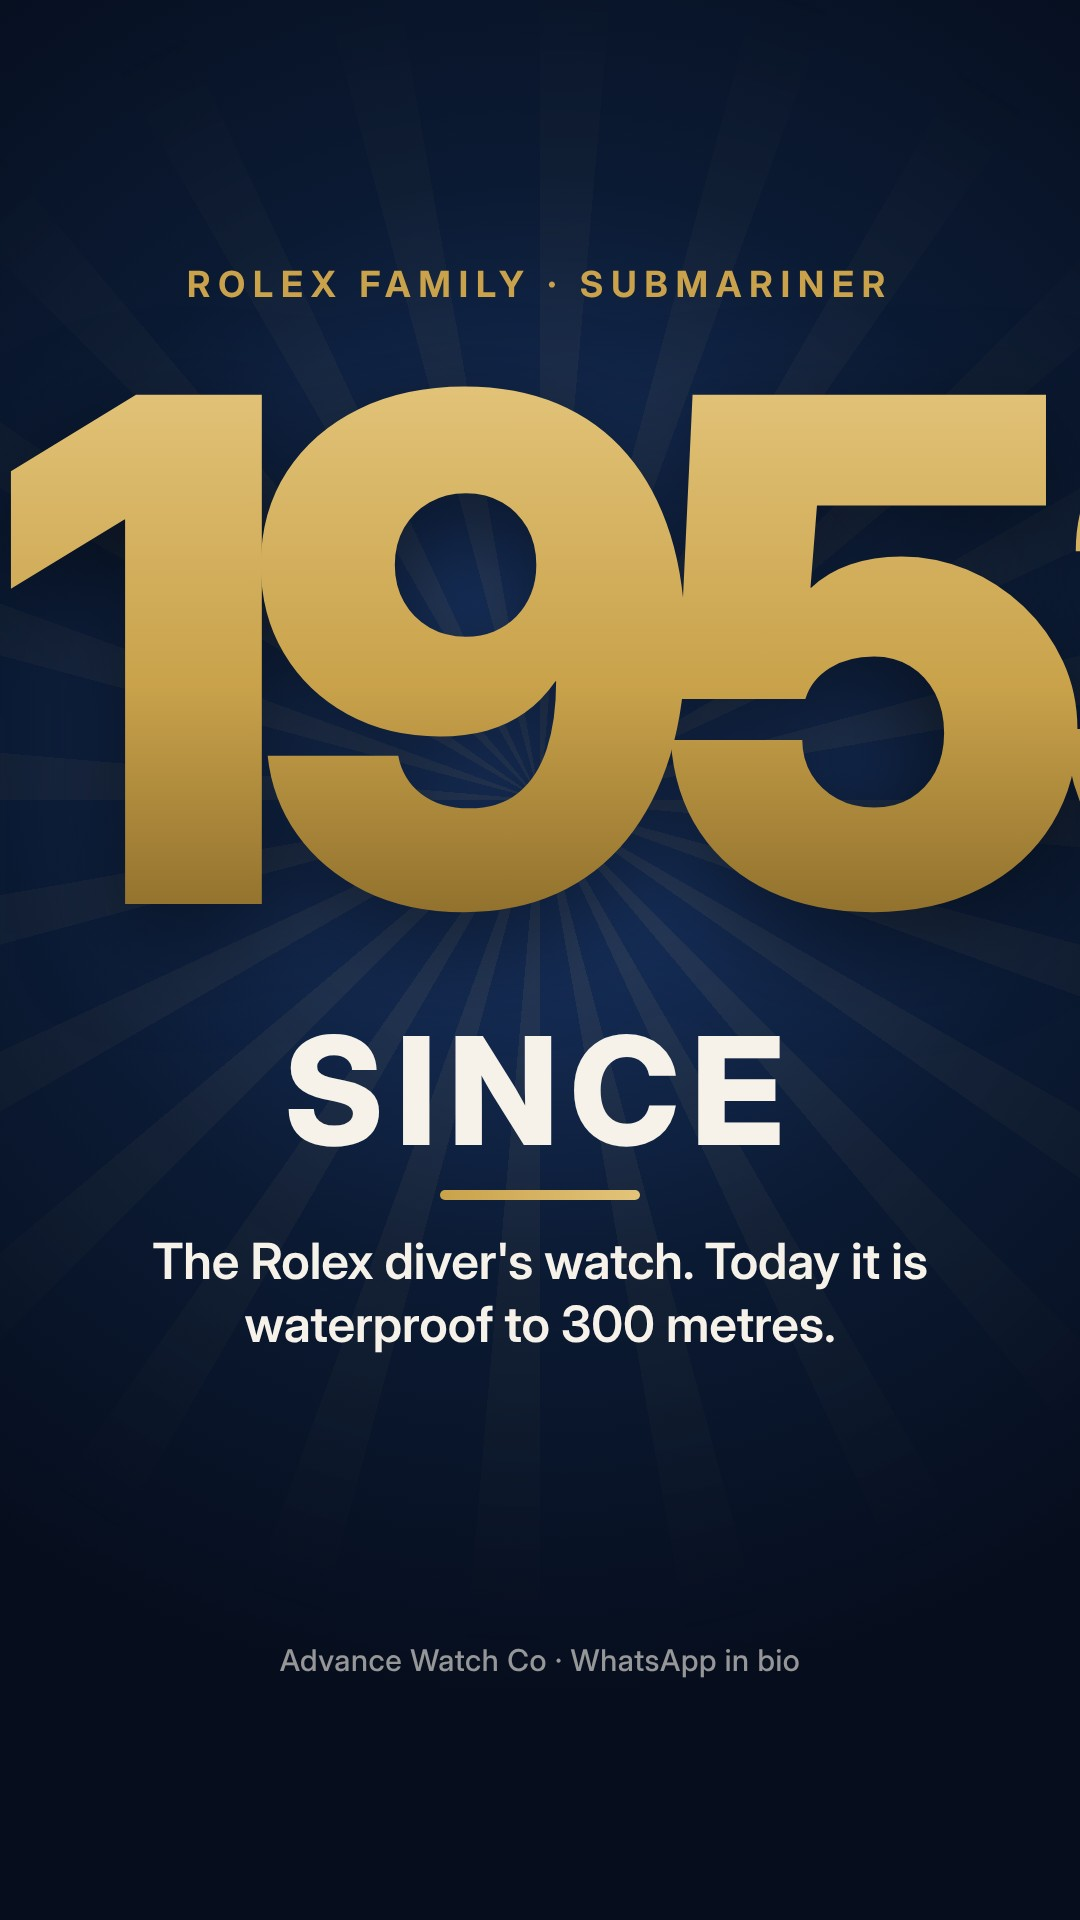
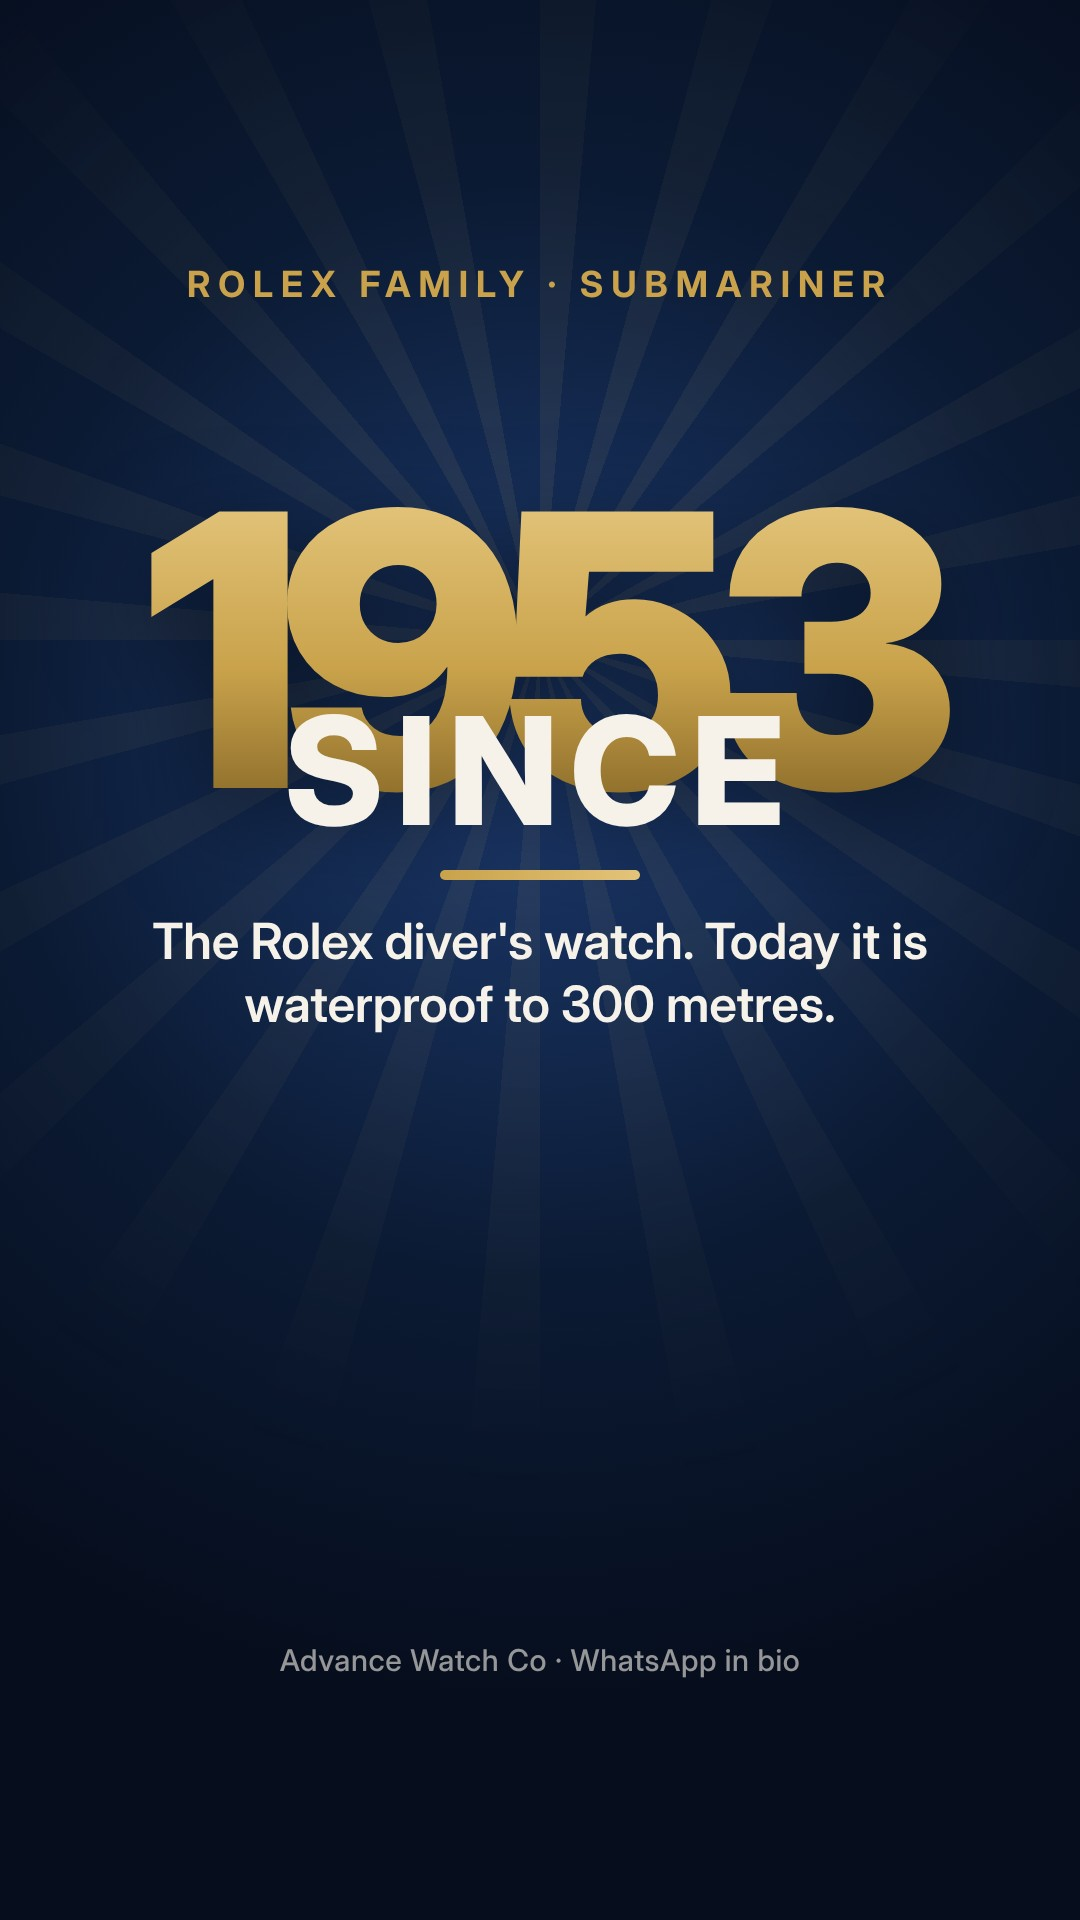
Story queue and reel files update
Claude-Session: https://claude.ai/code/session_0196sG434LsFacRR9je27wED

Changed region(s): [[0.0, 0.1875, 1.0, 0.7188], [0.825, 0.625, 0.8556, 0.6875]]

diff --git a/stories/new-style-v4/templates/v2_58_dep_25.html b/stories/new-style-v4/templates/v2_58_dep_25.html
@@ -19,10 +19,10 @@ html,body{width:1080px;height:1920px;overflow:hidden;background:#000}
 .tick:after{content:'';position:absolute;left:14px;top:6px;width:11px;height:22px;border:solid #c9a24b;border-width:0 5px 5px 0;transform:rotate(45deg)}
 .card{border-radius:36px}
 </style></head><body><div id='s' class='dark' style="">
-<div class='rays' style='top:800px'></div>
+<div class='rays' style='top:750px'></div>
 <div class='eyebrow c' style='top:262px'>How the deposit works</div>
-<div class='a c' style='top:300px;font-size:700px;font-weight:900;line-height:1;letter-spacing:-.06em;color:transparent;background:linear-gradient(180deg,#e3c47a 10%,#c9a24b 55%,#7d5f22 100%);-webkit-background-clip:text;background-clip:text;filter:drop-shadow(0 30px 50px rgba(0,0,0,.5))'>25%</div>
-<div class='a c' style='top:1000px;font-size:150px;font-weight:800;letter-spacing:.08em'>DEPOSIT</div>
-<div class='bar' style='left:50%;top:1190px;width:200px;transform:translateX(-50%)'></div>
-<div class='a' style='left:100px;top:1230px;width:880px;text-align:center;font-size:50px;font-weight:600;line-height:1.25'>A twenty-five percent deposit confirms your order. The balance is paid when you have checked the watch, by bank transfer, cash or crypto.</div>
+<div class='a c' style='top:350px;font-size:600px;font-weight:900;line-height:1;letter-spacing:-.06em;color:transparent;background:linear-gradient(180deg,#e3c47a 10%,#c9a24b 55%,#7d5f22 100%);-webkit-background-clip:text;background-clip:text;filter:drop-shadow(0 30px 50px rgba(0,0,0,.5))'>25</div>
+<div class='a c' style='top:900px;font-size:150px;font-weight:800;letter-spacing:.08em'>PERCENT DEPOSIT</div>
+<div class='bar' style='left:50%;top:1090px;width:200px;transform:translateX(-50%)'></div>
+<div class='a' style='left:100px;top:1130px;width:880px;text-align:center;font-size:50px;font-weight:600;line-height:1.25'>A twenty-five percent deposit confirms your order. The balance is paid when you have checked the watch, by bank transfer, cash or crypto.</div>
 <div class='legal' style='top:1640px;color:rgba(246,242,234,.6)'>Advance Watch Co · WhatsApp in bio</div></div></body></html>

diff --git a/stories/new-style-v4/templates/v2_62_fk_one.html b/stories/new-style-v4/templates/v2_62_fk_one.html
@@ -19,10 +19,10 @@ html,body{width:1080px;height:1920px;overflow:hidden;background:#000}
 .tick:after{content:'';position:absolute;left:14px;top:6px;width:11px;height:22px;border:solid #c9a24b;border-width:0 5px 5px 0;transform:rotate(45deg)}
 .card{border-radius:36px}
 </style></head><body><div id='s' class='dark' style="">
-<div class='rays' style='top:800px'></div>
+<div class='rays' style='top:750px'></div>
 <div class='eyebrow c' style='top:262px'>How many checks?</div>
-<div class='a c' style='top:300px;font-size:700px;font-weight:900;line-height:1;letter-spacing:-.06em;color:transparent;background:linear-gradient(180deg,#e3c47a 10%,#c9a24b 55%,#7d5f22 100%);-webkit-background-clip:text;background-clip:text;filter:drop-shadow(0 30px 50px rgba(0,0,0,.5))'>12</div>
-<div class='a c' style='top:1000px;font-size:150px;font-weight:800;letter-spacing:.08em'>CHECKS</div>
-<div class='bar' style='left:50%;top:1190px;width:200px;transform:translateX(-50%)'></div>
-<div class='a' style='left:100px;top:1230px;width:880px;text-align:center;font-size:50px;font-weight:600;line-height:1.25'>Twelve checks on dial, case, glow, numbers, papers, price and seller, ending with an independent check. None proves it alone. Use them together.</div>
+<div class='a c' style='top:350px;font-size:600px;font-weight:900;line-height:1;letter-spacing:-.06em;color:transparent;background:linear-gradient(180deg,#e3c47a 10%,#c9a24b 55%,#7d5f22 100%);-webkit-background-clip:text;background-clip:text;filter:drop-shadow(0 30px 50px rgba(0,0,0,.5))'>12</div>
+<div class='a c' style='top:900px;font-size:150px;font-weight:800;letter-spacing:.08em'>CHECKS</div>
+<div class='bar' style='left:50%;top:1090px;width:200px;transform:translateX(-50%)'></div>
+<div class='a' style='left:100px;top:1130px;width:880px;text-align:center;font-size:50px;font-weight:600;line-height:1.25'>Twelve checks on dial, case, glow, numbers, papers, price and seller, ending with an independent check. None proves it alone. Use them together.</div>
 <div class='legal' style='top:1640px;color:rgba(246,242,234,.6)'>Advance Watch Co · WhatsApp in bio</div></div></body></html>

diff --git a/stories/new-style-v4/templates/v2_57_hrs_find.html b/stories/new-style-v4/templates/v2_57_hrs_find.html
@@ -19,10 +19,10 @@ html,body{width:1080px;height:1920px;overflow:hidden;background:#000}
 .tick:after{content:'';position:absolute;left:14px;top:6px;width:11px;height:22px;border:solid #c9a24b;border-width:0 5px 5px 0;transform:rotate(45deg)}
 .card{border-radius:36px}
 </style></head><body><div id='s' class='dark' style="">
-<div class='rays' style='top:800px'></div>
+<div class='rays' style='top:640px'></div>
 <div class='eyebrow c' style='top:262px'>Sourcing time</div>
-<div class='a c' style='top:300px;font-size:700px;font-weight:900;line-height:1;letter-spacing:-.06em;color:transparent;background:linear-gradient(180deg,#e3c47a 10%,#c9a24b 55%,#7d5f22 100%);-webkit-background-clip:text;background-clip:text;filter:drop-shadow(0 30px 50px rgba(0,0,0,.5))'>1-48</div>
-<div class='a c' style='top:1000px;font-size:150px;font-weight:800;letter-spacing:.08em'>HOURS</div>
-<div class='bar' style='left:50%;top:1190px;width:200px;transform:translateX(-50%)'></div>
-<div class='a' style='left:100px;top:1230px;width:880px;text-align:center;font-size:50px;font-weight:600;line-height:1.25'>Finding your watch can take from one hour up to forty-eight hours, depending on the watch. We tell you honestly which.</div>
+<div class='a c' style='top:460px;font-size:380px;font-weight:900;line-height:1;letter-spacing:-.06em;color:transparent;background:linear-gradient(180deg,#e3c47a 10%,#c9a24b 55%,#7d5f22 100%);-webkit-background-clip:text;background-clip:text;filter:drop-shadow(0 30px 50px rgba(0,0,0,.5))'>1-48</div>
+<div class='a c' style='top:680px;font-size:150px;font-weight:800;letter-spacing:.08em'>HOURS</div>
+<div class='bar' style='left:50%;top:870px;width:200px;transform:translateX(-50%)'></div>
+<div class='a' style='left:100px;top:910px;width:880px;text-align:center;font-size:50px;font-weight:600;line-height:1.25'>Finding your watch can take from one hour up to forty-eight hours, depending on the watch. We tell you honestly which.</div>
 <div class='legal' style='top:1640px;color:rgba(246,242,234,.6)'>Advance Watch Co · WhatsApp in bio</div></div></body></html>

diff --git a/stories/new-style-v4/templates/v2_02_fam_oyster.html b/stories/new-style-v4/templates/v2_02_fam_oyster.html
@@ -19,9 +19,9 @@ html,body{width:1080px;height:1920px;overflow:hidden;background:#000}
 .tick:after{content:'';position:absolute;left:14px;top:6px;width:11px;height:22px;border:solid #c9a24b;border-width:0 5px 5px 0;transform:rotate(45deg)}
 .card{border-radius:36px}
 </style></head><body><div id='s' class='dark' style="">
-<div class='rays' style='top:800px'></div>
+<div class='rays' style='top:640px'></div>
 <div class='eyebrow c' style='top:262px'>Rolex family · Oyster Perpetual</div>
-<div class='a c' style='top:300px;font-size:700px;font-weight:900;line-height:1;letter-spacing:-.06em;color:transparent;background:linear-gradient(180deg,#e3c47a 10%,#c9a24b 55%,#7d5f22 100%);-webkit-background-clip:text;background-clip:text;filter:drop-shadow(0 30px 50px rgba(0,0,0,.5))'>1931</div>
+<div class='a c' style='top:620px;font-size:380px;font-weight:900;line-height:1;letter-spacing:-.06em;color:transparent;background:linear-gradient(180deg,#e3c47a 10%,#c9a24b 55%,#7d5f22 100%);-webkit-background-clip:text;background-clip:text;filter:drop-shadow(0 30px 50px rgba(0,0,0,.5))'>1931</div>
 <div class='a c' style='top:1000px;font-size:150px;font-weight:800;letter-spacing:.08em'>SINCE</div>
 <div class='bar' style='left:50%;top:1190px;width:200px;transform:translateX(-50%)'></div>
 <div class='a' style='left:100px;top:1230px;width:880px;text-align:center;font-size:50px;font-weight:600;line-height:1.25'>The essential Rolex: waterproof Oyster case and a self-winding rotor, nothing extra. Colourful dials, 28 to 41 mm.</div>

diff --git a/stories/new-style-v4/templates/v2_01_fam_daydate.html b/stories/new-style-v4/templates/v2_01_fam_daydate.html
@@ -19,9 +19,9 @@ html,body{width:1080px;height:1920px;overflow:hidden;background:#000}
 .tick:after{content:'';position:absolute;left:14px;top:6px;width:11px;height:22px;border:solid #c9a24b;border-width:0 5px 5px 0;transform:rotate(45deg)}
 .card{border-radius:36px}
 </style></head><body><div id='s' class='dark' style="">
-<div class='rays' style='top:800px'></div>
+<div class='rays' style='top:640px'></div>
 <div class='eyebrow c' style='top:262px'>Rolex family · Day-Date</div>
-<div class='a c' style='top:300px;font-size:700px;font-weight:900;line-height:1;letter-spacing:-.06em;color:transparent;background:linear-gradient(180deg,#e3c47a 10%,#c9a24b 55%,#7d5f22 100%);-webkit-background-clip:text;background-clip:text;filter:drop-shadow(0 30px 50px rgba(0,0,0,.5))'>1956</div>
+<div class='a c' style='top:620px;font-size:380px;font-weight:900;line-height:1;letter-spacing:-.06em;color:transparent;background:linear-gradient(180deg,#e3c47a 10%,#c9a24b 55%,#7d5f22 100%);-webkit-background-clip:text;background-clip:text;filter:drop-shadow(0 30px 50px rgba(0,0,0,.5))'>1956</div>
 <div class='a c' style='top:1000px;font-size:150px;font-weight:800;letter-spacing:.08em'>SINCE</div>
 <div class='bar' style='left:50%;top:1190px;width:200px;transform:translateX(-50%)'></div>
 <div class='a' style='left:100px;top:1230px;width:880px;text-align:center;font-size:50px;font-weight:600;line-height:1.25'>The first wristwatch to spell out the day of the week in full. Made only in gold or platinum, on the President bracelet.</div>

diff --git a/stories/new-style-v4/templates/v2_00_fam_datejust.html b/stories/new-style-v4/templates/v2_00_fam_datejust.html
@@ -19,9 +19,9 @@ html,body{width:1080px;height:1920px;overflow:hidden;background:#000}
 .tick:after{content:'';position:absolute;left:14px;top:6px;width:11px;height:22px;border:solid #c9a24b;border-width:0 5px 5px 0;transform:rotate(45deg)}
 .card{border-radius:36px}
 </style></head><body><div id='s' class='dark' style="">
-<div class='rays' style='top:800px'></div>
+<div class='rays' style='top:640px'></div>
 <div class='eyebrow c' style='top:262px'>Rolex family · Datejust</div>
-<div class='a c' style='top:300px;font-size:700px;font-weight:900;line-height:1;letter-spacing:-.06em;color:transparent;background:linear-gradient(180deg,#e3c47a 10%,#c9a24b 55%,#7d5f22 100%);-webkit-background-clip:text;background-clip:text;filter:drop-shadow(0 30px 50px rgba(0,0,0,.5))'>1945</div>
+<div class='a c' style='top:620px;font-size:380px;font-weight:900;line-height:1;letter-spacing:-.06em;color:transparent;background:linear-gradient(180deg,#e3c47a 10%,#c9a24b 55%,#7d5f22 100%);-webkit-background-clip:text;background-clip:text;filter:drop-shadow(0 30px 50px rgba(0,0,0,.5))'>1945</div>
 <div class='a c' style='top:1000px;font-size:150px;font-weight:800;letter-spacing:.08em'>SINCE</div>
 <div class='bar' style='left:50%;top:1190px;width:200px;transform:translateX(-50%)'></div>
 <div class='a' style='left:100px;top:1230px;width:880px;text-align:center;font-size:50px;font-weight:600;line-height:1.25'>The first self-winding chronometer wristwatch with the date in a window. The classic Rolex. Sizes 31 to 41 mm.</div>

diff --git a/stories/new-style-v4/templates/v2_12_fam_landdweller.html b/stories/new-style-v4/templates/v2_12_fam_landdweller.html
@@ -19,9 +19,9 @@ html,body{width:1080px;height:1920px;overflow:hidden;background:#000}
 .tick:after{content:'';position:absolute;left:14px;top:6px;width:11px;height:22px;border:solid #c9a24b;border-width:0 5px 5px 0;transform:rotate(45deg)}
 .card{border-radius:36px}
 </style></head><body><div id='s' class='dark' style="">
-<div class='rays' style='top:800px'></div>
+<div class='rays' style='top:640px'></div>
 <div class='eyebrow c' style='top:262px'>Rolex family · Land-Dweller</div>
-<div class='a c' style='top:300px;font-size:700px;font-weight:900;line-height:1;letter-spacing:-.06em;color:transparent;background:linear-gradient(180deg,#e3c47a 10%,#c9a24b 55%,#7d5f22 100%);-webkit-background-clip:text;background-clip:text;filter:drop-shadow(0 30px 50px rgba(0,0,0,.5))'>2025</div>
+<div class='a c' style='top:620px;font-size:380px;font-weight:900;line-height:1;letter-spacing:-.06em;color:transparent;background:linear-gradient(180deg,#e3c47a 10%,#c9a24b 55%,#7d5f22 100%);-webkit-background-clip:text;background-clip:text;filter:drop-shadow(0 30px 50px rgba(0,0,0,.5))'>2025</div>
 <div class='a c' style='top:1000px;font-size:150px;font-weight:800;letter-spacing:.08em'>SINCE</div>
 <div class='bar' style='left:50%;top:1190px;width:200px;transform:translateX(-50%)'></div>
 <div class='a' style='left:100px;top:1230px;width:880px;text-align:center;font-size:50px;font-weight:600;line-height:1.25'>Rolex's newest watch family, with the new Dynapulse escapement and an integrated bracelet.</div>

diff --git a/stories/new-style-v4/templates/v2_04_fam_gmt.html b/stories/new-style-v4/templates/v2_04_fam_gmt.html
@@ -19,9 +19,9 @@ html,body{width:1080px;height:1920px;overflow:hidden;background:#000}
 .tick:after{content:'';position:absolute;left:14px;top:6px;width:11px;height:22px;border:solid #c9a24b;border-width:0 5px 5px 0;transform:rotate(45deg)}
 .card{border-radius:36px}
 </style></head><body><div id='s' class='dark' style="">
-<div class='rays' style='top:800px'></div>
+<div class='rays' style='top:640px'></div>
 <div class='eyebrow c' style='top:262px'>Rolex family · GMT-Master II</div>
-<div class='a c' style='top:300px;font-size:700px;font-weight:900;line-height:1;letter-spacing:-.06em;color:transparent;background:linear-gradient(180deg,#e3c47a 10%,#c9a24b 55%,#7d5f22 100%);-webkit-background-clip:text;background-clip:text;filter:drop-shadow(0 30px 50px rgba(0,0,0,.5))'>1955</div>
+<div class='a c' style='top:620px;font-size:380px;font-weight:900;line-height:1;letter-spacing:-.06em;color:transparent;background:linear-gradient(180deg,#e3c47a 10%,#c9a24b 55%,#7d5f22 100%);-webkit-background-clip:text;background-clip:text;filter:drop-shadow(0 30px 50px rgba(0,0,0,.5))'>1955</div>
 <div class='a c' style='top:1000px;font-size:150px;font-weight:800;letter-spacing:.08em'>SINCE</div>
 <div class='bar' style='left:50%;top:1190px;width:200px;transform:translateX(-50%)'></div>
 <div class='a' style='left:100px;top:1230px;width:880px;text-align:center;font-size:50px;font-weight:600;line-height:1.25'>Made for pilots to follow two time zones at once. The two-colour bezel is its signature.</div>

diff --git a/stories/new-style-v4/templates/v2_07_fam_airking.html b/stories/new-style-v4/templates/v2_07_fam_airking.html
@@ -19,9 +19,9 @@ html,body{width:1080px;height:1920px;overflow:hidden;background:#000}
 .tick:after{content:'';position:absolute;left:14px;top:6px;width:11px;height:22px;border:solid #c9a24b;border-width:0 5px 5px 0;transform:rotate(45deg)}
 .card{border-radius:36px}
 </style></head><body><div id='s' class='dark' style="">
-<div class='rays' style='top:800px'></div>
+<div class='rays' style='top:640px'></div>
 <div class='eyebrow c' style='top:262px'>Rolex family · Air-King</div>
-<div class='a c' style='top:300px;font-size:700px;font-weight:900;line-height:1;letter-spacing:-.06em;color:transparent;background:linear-gradient(180deg,#e3c47a 10%,#c9a24b 55%,#7d5f22 100%);-webkit-background-clip:text;background-clip:text;filter:drop-shadow(0 30px 50px rgba(0,0,0,.5))'>1945</div>
+<div class='a c' style='top:620px;font-size:380px;font-weight:900;line-height:1;letter-spacing:-.06em;color:transparent;background:linear-gradient(180deg,#e3c47a 10%,#c9a24b 55%,#7d5f22 100%);-webkit-background-clip:text;background-clip:text;filter:drop-shadow(0 30px 50px rgba(0,0,0,.5))'>1945</div>
 <div class='a c' style='top:1000px;font-size:150px;font-weight:800;letter-spacing:.08em'>SINCE</div>
 <div class='bar' style='left:50%;top:1190px;width:200px;transform:translateX(-50%)'></div>
 <div class='a' style='left:100px;top:1230px;width:880px;text-align:center;font-size:50px;font-weight:600;line-height:1.25'>A tribute to early aviation, with a bold minute scale made for reading the time in flight.</div>

diff --git a/stories/new-style-v4/templates/v2_10_fam_yachtmaster.html b/stories/new-style-v4/templates/v2_10_fam_yachtmaster.html
@@ -19,9 +19,9 @@ html,body{width:1080px;height:1920px;overflow:hidden;background:#000}
 .tick:after{content:'';position:absolute;left:14px;top:6px;width:11px;height:22px;border:solid #c9a24b;border-width:0 5px 5px 0;transform:rotate(45deg)}
 .card{border-radius:36px}
 </style></head><body><div id='s' class='dark' style="">
-<div class='rays' style='top:800px'></div>
+<div class='rays' style='top:640px'></div>
 <div class='eyebrow c' style='top:262px'>Rolex family · Yacht-Master</div>
-<div class='a c' style='top:300px;font-size:700px;font-weight:900;line-height:1;letter-spacing:-.06em;color:transparent;background:linear-gradient(180deg,#e3c47a 10%,#c9a24b 55%,#7d5f22 100%);-webkit-background-clip:text;background-clip:text;filter:drop-shadow(0 30px 50px rgba(0,0,0,.5))'>1992</div>
+<div class='a c' style='top:620px;font-size:380px;font-weight:900;line-height:1;letter-spacing:-.06em;color:transparent;background:linear-gradient(180deg,#e3c47a 10%,#c9a24b 55%,#7d5f22 100%);-webkit-background-clip:text;background-clip:text;filter:drop-shadow(0 30px 50px rgba(0,0,0,.5))'>1992</div>
 <div class='a c' style='top:1000px;font-size:150px;font-weight:800;letter-spacing:.08em'>SINCE</div>
 <div class='bar' style='left:50%;top:1190px;width:200px;transform:translateX(-50%)'></div>
 <div class='a' style='left:100px;top:1230px;width:880px;text-align:center;font-size:50px;font-weight:600;line-height:1.25'>The Rolex sailing watch. Precious metals, Oysterflex straps and a bidirectional bezel.</div>

diff --git a/stories/new-style-v4/templates/v2_06_fam_skydweller.html b/stories/new-style-v4/templates/v2_06_fam_skydweller.html
@@ -19,9 +19,9 @@ html,body{width:1080px;height:1920px;overflow:hidden;background:#000}
 .tick:after{content:'';position:absolute;left:14px;top:6px;width:11px;height:22px;border:solid #c9a24b;border-width:0 5px 5px 0;transform:rotate(45deg)}
 .card{border-radius:36px}
 </style></head><body><div id='s' class='dark' style="">
-<div class='rays' style='top:800px'></div>
+<div class='rays' style='top:640px'></div>
 <div class='eyebrow c' style='top:262px'>Rolex family · Sky-Dweller</div>
-<div class='a c' style='top:300px;font-size:700px;font-weight:900;line-height:1;letter-spacing:-.06em;color:transparent;background:linear-gradient(180deg,#e3c47a 10%,#c9a24b 55%,#7d5f22 100%);-webkit-background-clip:text;background-clip:text;filter:drop-shadow(0 30px 50px rgba(0,0,0,.5))'>2012</div>
+<div class='a c' style='top:620px;font-size:380px;font-weight:900;line-height:1;letter-spacing:-.06em;color:transparent;background:linear-gradient(180deg,#e3c47a 10%,#c9a24b 55%,#7d5f22 100%);-webkit-background-clip:text;background-clip:text;filter:drop-shadow(0 30px 50px rgba(0,0,0,.5))'>2012</div>
 <div class='a c' style='top:1000px;font-size:150px;font-weight:800;letter-spacing:.08em'>SINCE</div>
 <div class='bar' style='left:50%;top:1190px;width:200px;transform:translateX(-50%)'></div>
 <div class='a' style='left:100px;top:1230px;width:880px;text-align:center;font-size:50px;font-weight:600;line-height:1.25'>An annual calendar plus a second time zone, set with the rotating Ring Command bezel.</div>

diff --git a/stories/new-style-v4/templates/v2_08_fam_seadweller.html b/stories/new-style-v4/templates/v2_08_fam_seadweller.html
@@ -19,9 +19,9 @@ html,body{width:1080px;height:1920px;overflow:hidden;background:#000}
 .tick:after{content:'';position:absolute;left:14px;top:6px;width:11px;height:22px;border:solid #c9a24b;border-width:0 5px 5px 0;transform:rotate(45deg)}
 .card{border-radius:36px}
 </style></head><body><div id='s' class='dark' style="">
-<div class='rays' style='top:800px'></div>
+<div class='rays' style='top:640px'></div>
 <div class='eyebrow c' style='top:262px'>Rolex family · Sea-Dweller</div>
-<div class='a c' style='top:300px;font-size:700px;font-weight:900;line-height:1;letter-spacing:-.06em;color:transparent;background:linear-gradient(180deg,#e3c47a 10%,#c9a24b 55%,#7d5f22 100%);-webkit-background-clip:text;background-clip:text;filter:drop-shadow(0 30px 50px rgba(0,0,0,.5))'>1967</div>
+<div class='a c' style='top:620px;font-size:380px;font-weight:900;line-height:1;letter-spacing:-.06em;color:transparent;background:linear-gradient(180deg,#e3c47a 10%,#c9a24b 55%,#7d5f22 100%);-webkit-background-clip:text;background-clip:text;filter:drop-shadow(0 30px 50px rgba(0,0,0,.5))'>1967</div>
 <div class='a c' style='top:1000px;font-size:150px;font-weight:800;letter-spacing:.08em'>SINCE</div>
 <div class='bar' style='left:50%;top:1190px;width:200px;transform:translateX(-50%)'></div>
 <div class='a' style='left:100px;top:1230px;width:880px;text-align:center;font-size:50px;font-weight:600;line-height:1.25'>Built for saturation divers, with a helium escape valve. Waterproof to 1,220 metres.</div>
